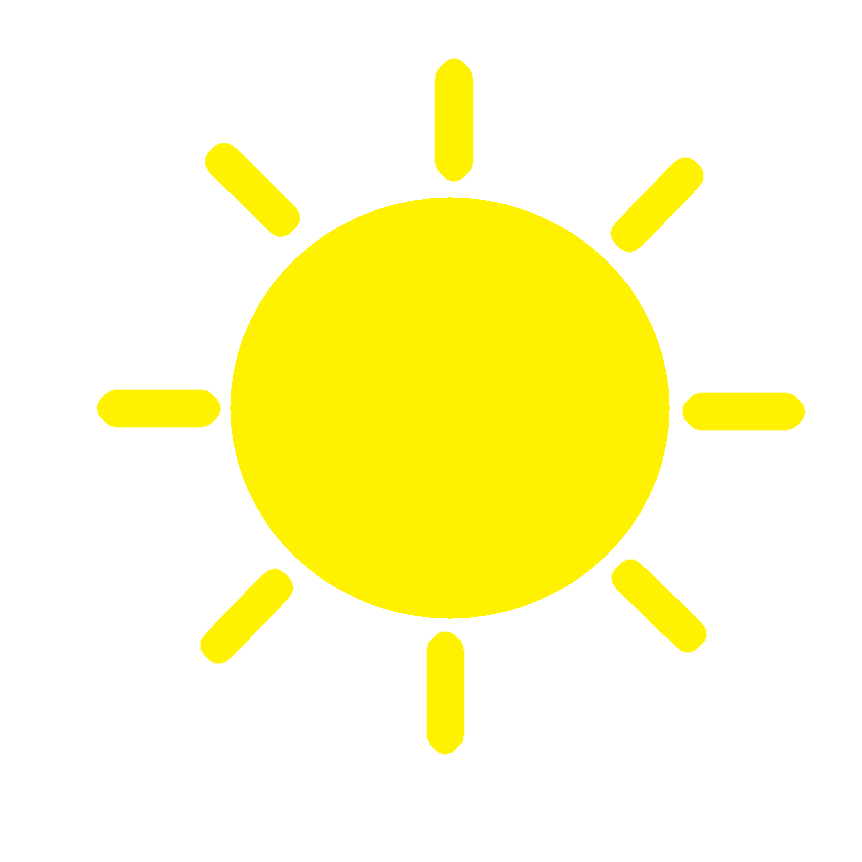
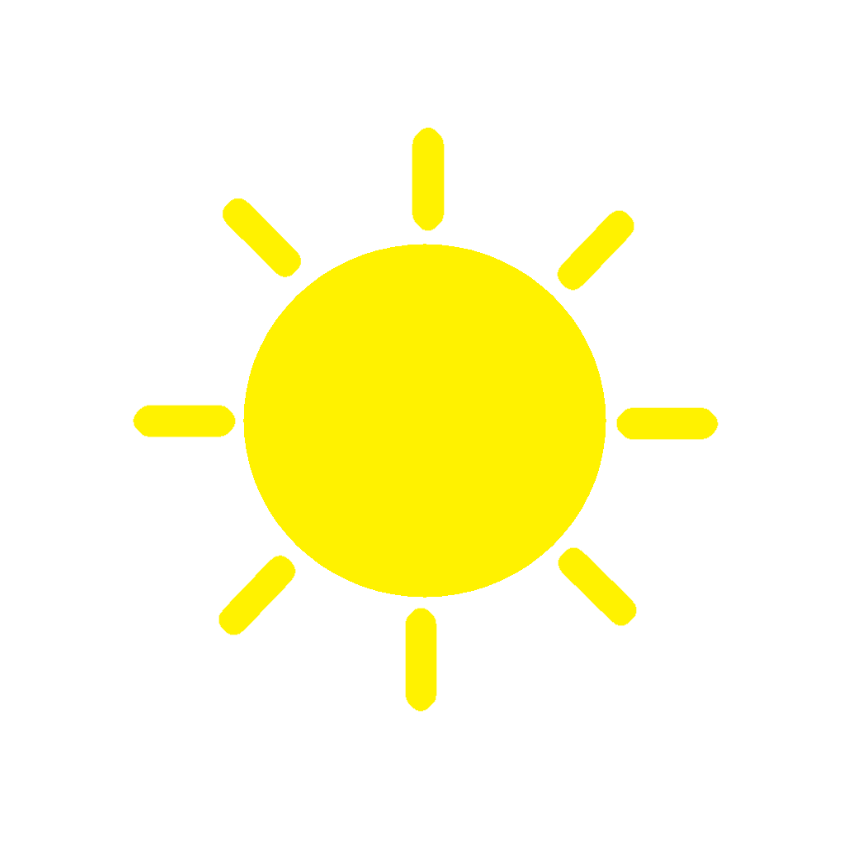
Advice style

Changed region(s): [[0.0905, 0.0603, 0.935, 0.8747]]

diff --git a/html/bubble/css/style.css b/html/bubble/css/style.css
@@ -551,6 +551,12 @@ select {
     margin-top: -10px;
 }
 
+.weather_symbol_small {
+    margin-bottom: 6.5px;
+    width: 70px;
+    margin-top: 6.5px;
+}
+
 .weather_advice {
     font-family: Roboto,sans-serif;
     margin-bottom: 20px;
@@ -587,10 +593,7 @@ select {
     font-weight: 400!important;
 }
 
-.ui-loader {
-    display: none!important;
-}
-
-#home-attr, #accordionEx194, #advice-attr, #advice-encompass, #profile-attr, #messages-attr {
-    touch-action: manipulation;
+.weather_analysis {
+    font-weight: 900!important;
+    font-size: 18px!important;
 }

diff --git a/html/bubble/uiAssets/content_tab_advice.php b/html/bubble/uiAssets/content_tab_advice.php
@@ -53,11 +53,11 @@ function generateAdviceTab()
                     $weather_symbol = '';
 
                     if($temp >= 18) {
-                        $weather_symbol = "<img class='weather_symbol' src='../img/sun.png'>";
+                        $weather_symbol = "<img class='weather_symbol_small' src='../img/sun.png'>";
                         $bg = "#5fb0ff";
                         $advice = "<table class='weather_table'>
                                     <tr>
-                                        <td>It's a nice, hot day!</td>
+                                        <th class='weather_analysis'>It's a nice, hot day!</th>
                                     </tr>
                                     <tr class='advice_point'>
                                         <td>You should consider turning off all heaters to save energy</td>
@@ -82,7 +82,7 @@ function generateAdviceTab()
                         $bg = "#9ec7ee";
                         $advice = "<table class='weather_table'>
                                     <tr>
-                                        <td>It's a warm day!</td>
+                                        <th class='weather_analysis'>It's a warm day!</th>
                                     </tr>
                                     <tr class='advice_point'>
                                         <td>You should consider turning off all heaters to save energy</td>
@@ -103,7 +103,7 @@ function generateAdviceTab()
                         $bg = "#b7c2cc";
                         $advice = "<table class='weather_table'>
                                     <tr>
-                                        <td>It's a mild day!</td>
+                                        <th class='weather_analysis'>It's a mild day!</th>
                                     </tr>
                                     <tr class='advice_point'>
                                         <td>You should consider keeping heaters on low to save energy</td>
@@ -122,7 +122,7 @@ function generateAdviceTab()
                         $bg = "#bcbcbc";
                         $advice = "<table class='weather_table'>
                                     <tr>
-                                        <td>It's a chilly day!</td>
+                                        <th class='weather_analysis'>It's a chilly day!</th>
                                     </tr>
                                     <tr class='advice_point'>
                                         <td>You should consider turning off all air conditioners to save energy</td>
@@ -141,7 +141,7 @@ function generateAdviceTab()
                         $bg = "rgb(100, 100, 100)";
                         $advice = "<table class='weather_table'>
                                     <tr>
-                                        <td>It's a very cold day!</td>
+                                        <th class='weather_analysis'>It's a very cold day!</th>
                                     </tr>
                                     <tr class='advice_point'>
                                         <td>You should consider turning off all air conditioners to save energy</td>
